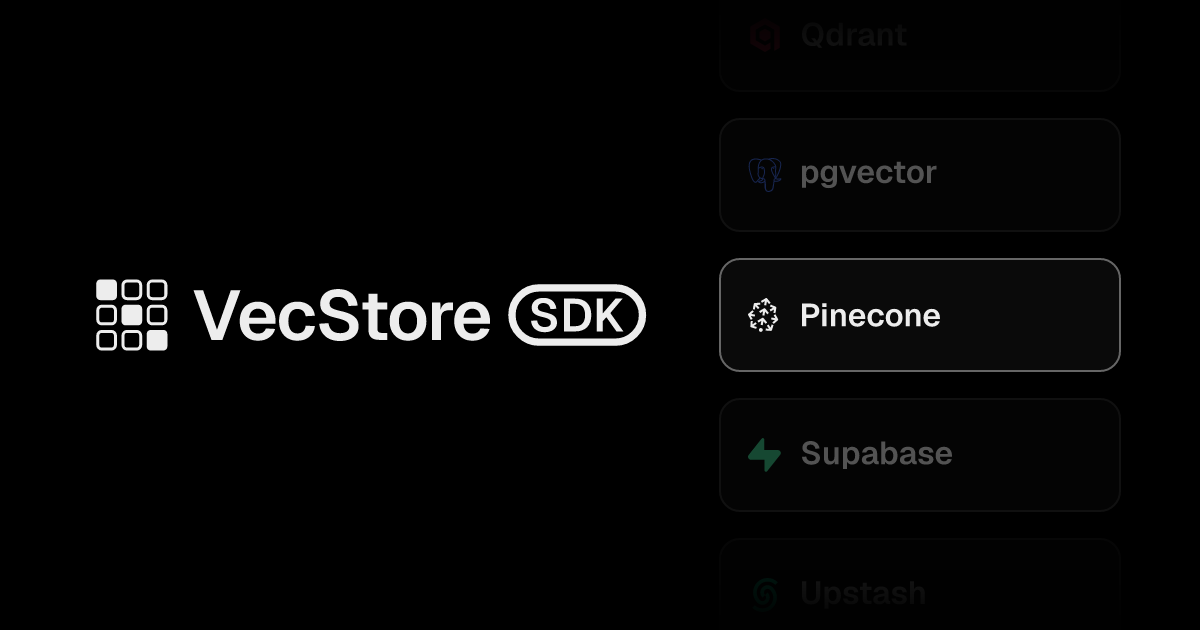
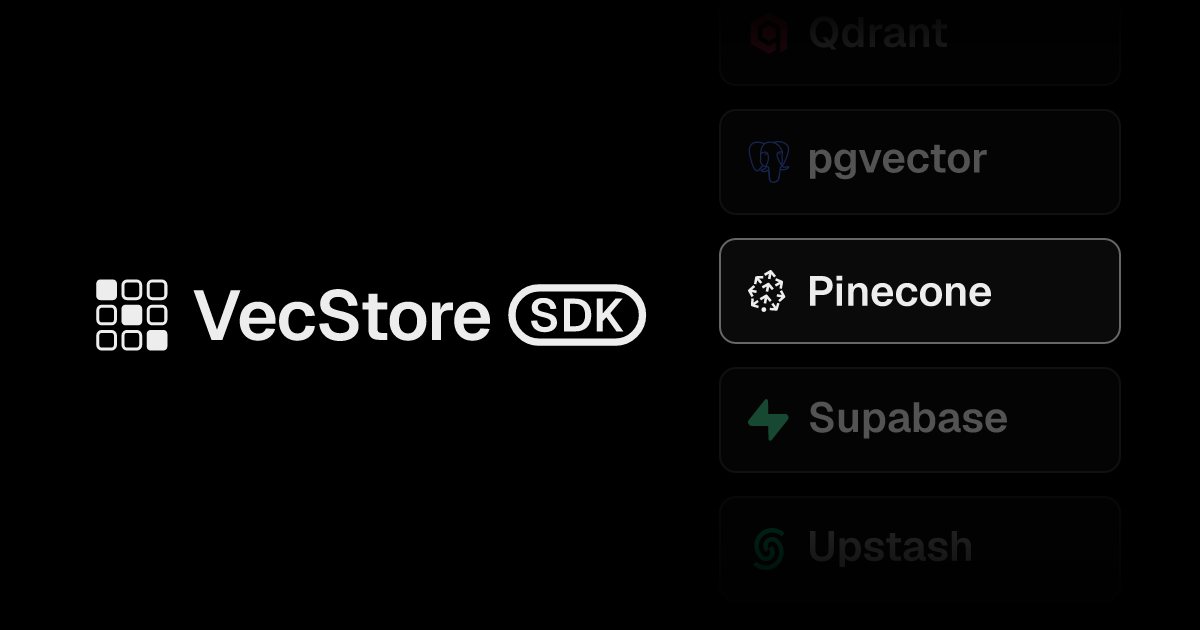
chore(assets): take the social card fade from the chat sdk card
The column was centred in the canvas, so both end cards were cut by an
edge, and the mask reached full opacity a whole card late. The first row
ended up as a bright rounded line at the top of the frame with its logo
and label already faded out, which reads as an artefact rather than as a
list that carries on past the crop.

The Chat SDK card does it the other way round. Measured off a 2400x1256
capture and scaled to this canvas: a 104px card with a 25px gap, the
stack lifted 24px above centre so only the first row is cut and the last
one ends 29px inside the frame, and a mask that is opaque from the first
card's bottom edge to the last card's top edge, reaching zero one pitch
below that. Neither end shows a cut, because the fade is already at zero
where the crop happens.

The icon and the label grow with the card, to 42px each, since the same
capture puts them at 42 percent of the card height rather than 30.

diff --git a/scripts/render-web-icons.ts b/scripts/render-web-icons.ts
@@ -17,15 +17,17 @@ const CARD_DIM_NEAR = 0.35;
 const CARD_DIM_FAR = 0.18;
 const CARD_STROKE_WIDTH = 2;
 const CARD_WIDTH = 400;
-const CARD_HEIGHT = 112;
-const CARD_GAP = 28;
-const CARD_RADIUS = 20;
-const CARD_ICON = 34;
+const CARD_HEIGHT = 104;
+const CARD_GAP = 25;
+const CARD_PITCH = CARD_HEIGHT + CARD_GAP;
+const CARD_RADIUS = 16;
+const CARD_ICON = 42;
 const CARD_ICON_INSET = 28;
 const CARD_ICON_Y = (CARD_HEIGHT - CARD_ICON) / 2;
 const CARD_LABEL_GAP = 20;
-const CARD_LABEL_SIZE = 32;
+const CARD_LABEL_SIZE = 42;
 const CARD_LABEL_X = CARD_ICON_INSET + CARD_ICON + CARD_LABEL_GAP;
+const COLUMN_LIFT = 24;
 const OG_LOGO_WIDTH = 580;
 const MARK_SIZE = 103.68;
 const OG_WIDTH = 1200;
@@ -201,13 +203,14 @@ const column = (
   activeId?: string
 ): Column => {
   const height = items.length * CARD_HEIGHT + (items.length - 1) * CARD_GAP;
-  const top = (OG_HEIGHT - height) / 2;
+  const top = (OG_HEIGHT - height) / 2 - COLUMN_LIFT;
+  const lastTop = top + (items.length - 1) * CARD_PITCH;
   const activeIndex = items.findIndex((row) => row.id === activeId);
   const cards = items
     .map((row, index) =>
       card(
         row,
-        top + index * (CARD_HEIGHT + CARD_GAP),
+        top + index * CARD_PITCH,
         labelFont,
         activeIndex === -1
           ? { active: false, opacity: 1 }
@@ -215,11 +218,10 @@ const column = (
       )
     )
     .join("");
-  const fadeStart = (top + (CARD_HEIGHT + CARD_GAP)) / OG_HEIGHT;
-  const fadeEnd =
-    (top + (items.length - 2) * (CARD_HEIGHT + CARD_GAP) + CARD_HEIGHT) /
-    OG_HEIGHT;
-  const fade = `<linearGradient id="column-fade" x1="0" y1="0" x2="0" y2="1"><stop offset="0" stop-color="#000000"/><stop offset="${format(fadeStart)}" stop-color="#ffffff"/><stop offset="${format(fadeEnd)}" stop-color="#ffffff"/><stop offset="1" stop-color="#000000"/></linearGradient><mask id="column-mask"><rect width="${OG_WIDTH}" height="${OG_HEIGHT}" fill="url(#column-fade)"/></mask>`;
+  const solidFrom = (top + CARD_HEIGHT) / OG_HEIGHT;
+  const solidTo = lastTop / OG_HEIGHT;
+  const clearTo = (lastTop + CARD_PITCH) / OG_HEIGHT;
+  const fade = `<linearGradient id="column-fade" x1="0" y1="0" x2="0" y2="1"><stop offset="0" stop-color="#000000"/><stop offset="${format(solidFrom)}" stop-color="#ffffff"/><stop offset="${format(solidTo)}" stop-color="#ffffff"/><stop offset="${format(clearTo)}" stop-color="#000000"/></linearGradient><mask id="column-mask"><rect width="${OG_WIDTH}" height="${OG_HEIGHT}" fill="url(#column-fade)"/></mask>`;
   return { cards, mask: fade };
 };
 
